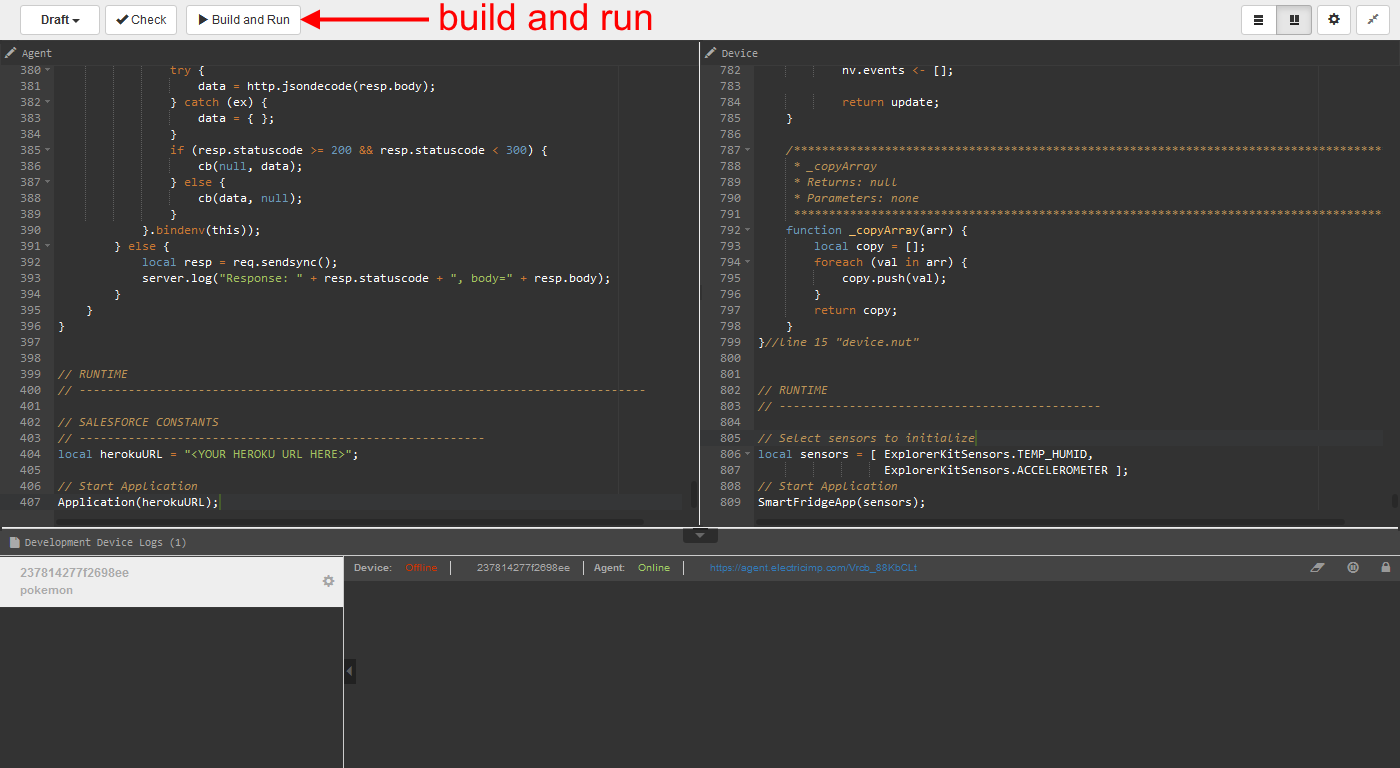
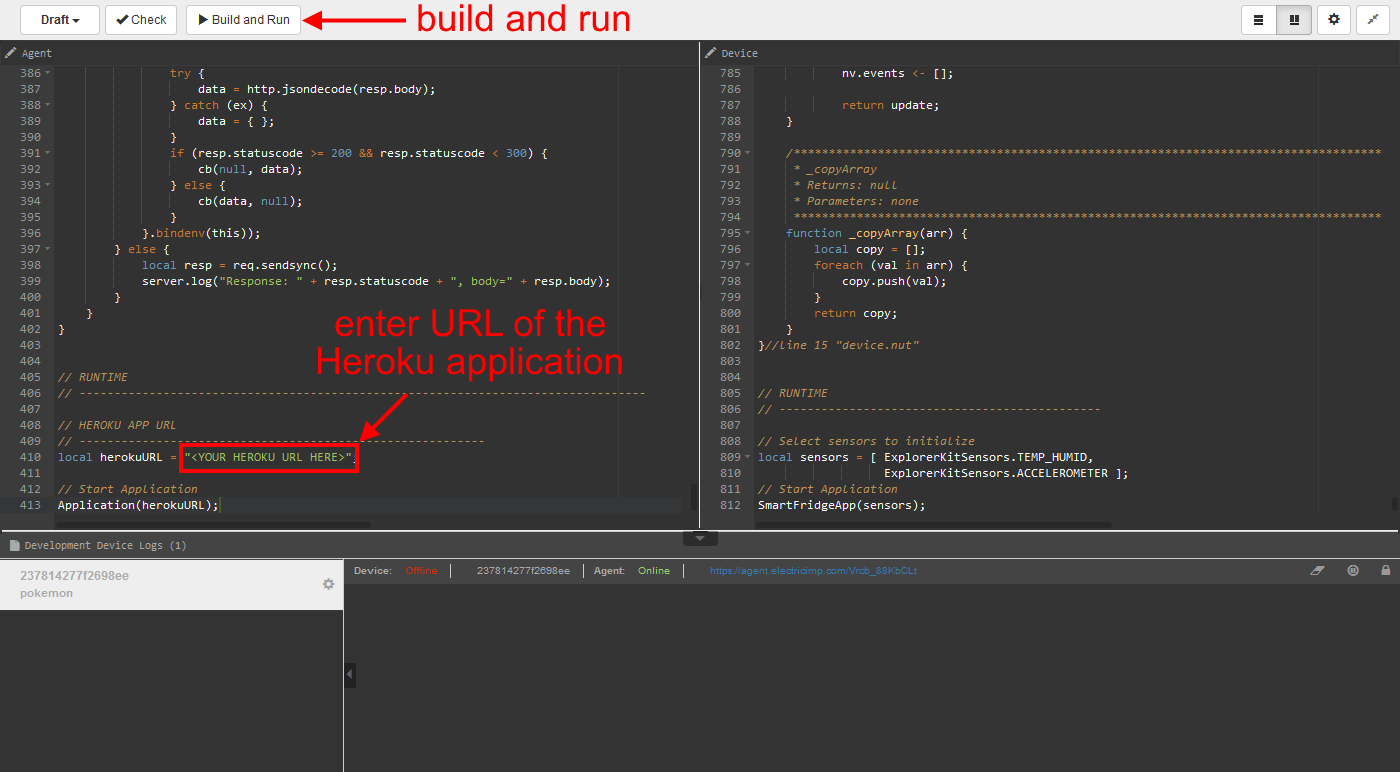
bug fix in documentation

diff --git a/README.md b/README.md
@@ -23,6 +23,11 @@ And if you want to install the board into a fridge:
 
   - 3 AA Batteries
 
+### Software
+ - [Agent code](./SmartRefrigerator_ExplorerKit_Salesforce.agent.nut)
+ - [Device code](./SmartRefrigerator_ExplorerKit_Salesforce.device.nut)
+ - [Heroku application](./HerokuApp) files
+
 ## Getting Started
 
 ### Step 1: Setup the Electric Imp hardware
@@ -202,13 +207,13 @@ Step by step instructions to create a Heroku App:
 				1. Select **Write to Salesforce any updates to your database** checkbox
 				2. Select **Description**, **Subject**, **Related_Fridge__c**, **Related_Fridge__r__deviceId__c** fields
 			- Click **Save** button			
-4. Go to **Deploy** tab on the top of the page to deploy heroku code
+4. Go to **Deploy** tab on the top of the page to deploy heroku application files
 ![Heroku deploy](./png/12.png)
 	- Select **Dropbox** tile in the **Deployment method** section
 	- Click **Connect to Dropbox** button in the **Connect to Dropbox** section
 		- In the popup window click **Allow** button to give Heroku access to your **Dropbox**
 		![Heroku - Dropbox](./png/13.png)
-	- Upload [Heroku code](./HerokuApp) files to your Dropbox account (Dropbox/Apps/Heroku/\<your-app-name\>)
+	- Upload [Heroku application](./HerokuApp) files (index.js, package.json and Procfile) to your Dropbox account (Dropbox/Apps/Heroku/\<your-app-name\>)
 	- Enter commit message and click **Deploy** button in the **Deploy changes** section
 	![Heroku - Dropbox - deploy](./png/14.png)
 
@@ -217,11 +222,9 @@ Step by step instructions to create a Heroku App:
 Go to the Electric Imp IDE and select your device from the sidebar for the final setup steps.
 
 - Open the Electric Imp IDE & select your device. Find the *HEROKU APP URL* section at the bottom of the Agent code and enter **URL of the Heroku application**.![URL of the Heroku application](./png/19.png)
-- Hit **Build and Run** to save and launch the code
+- Hit **Build and Run** to save and launch the code ![IDE Screenshot](./png/16.png)
 - Click on the agent url to launch the log in page
 - Log into salesforce
-
-![IDE Screenshot](./png/16.png)
 
 Your App should now be up and running.  You can monitor the device logs in the IDE, or log into Salesforce web portal to see updates there.
 
